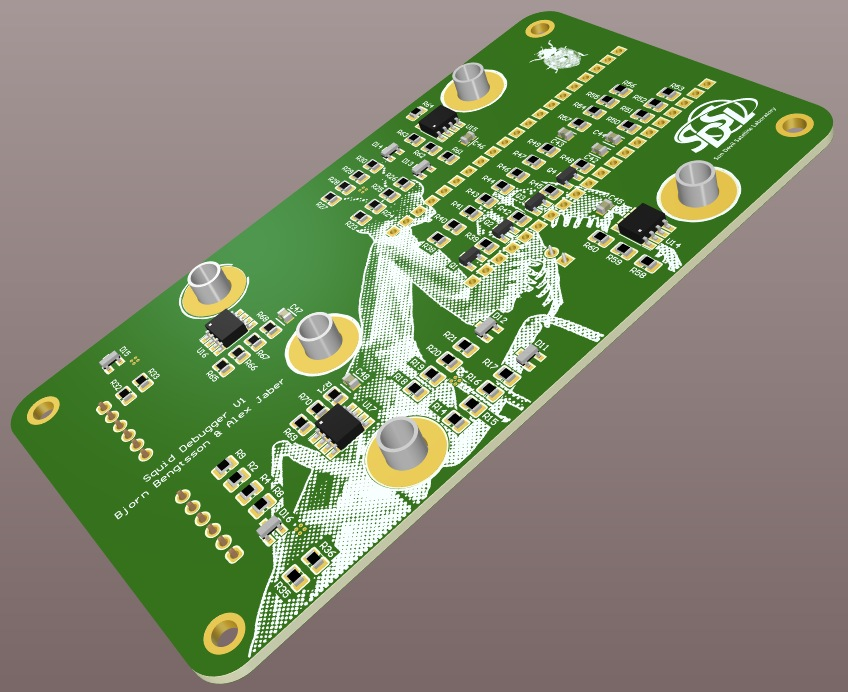
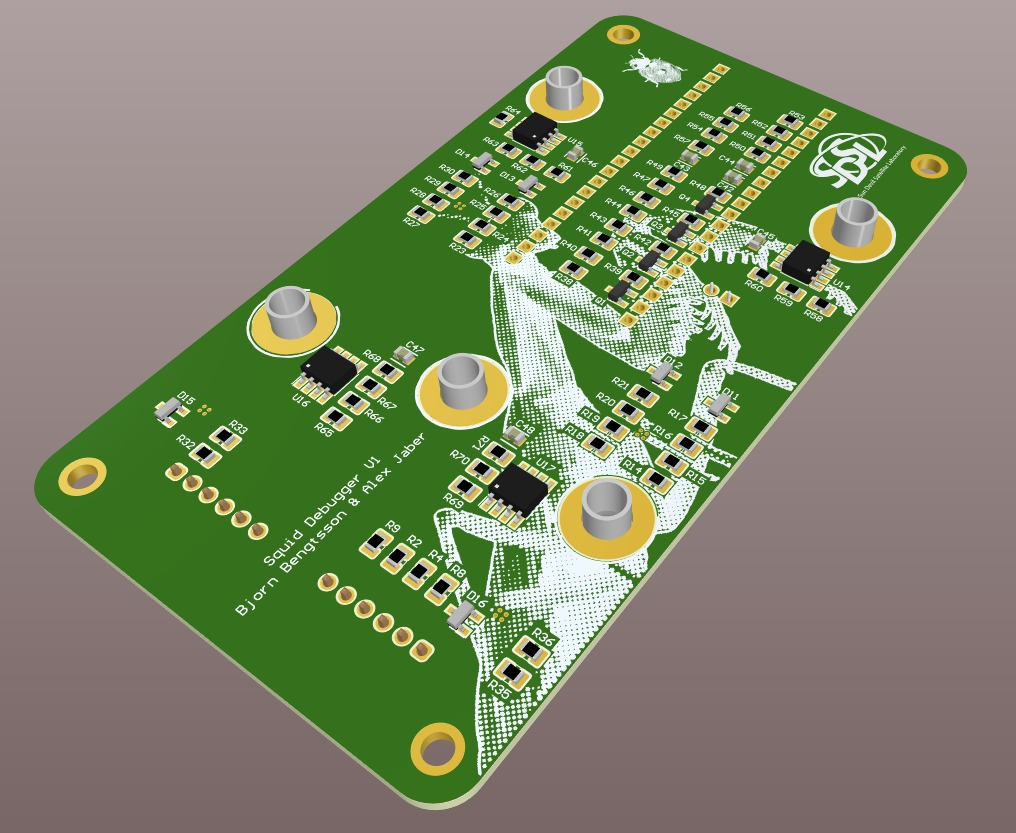
Board pictures from Bjorn: portrait bottom artwork
Front, back, both in 3D and the 2D layer view replace the scripted
pictures; the outdated 2D bottom picture is removed.

diff --git a/tools/pcb_shots.py b/tools/pcb_shots.py
@@ -13,7 +13,7 @@ Do not touch the mouse or keyboard while it runs (about 40 s; it stops by itself
 with a Shift + right-button drag. After Fit Board the view is zoomed out two wheel notches (Ctrl + wheel), so the floating toolbar at the top of
 the view and the layer tabs at the bottom never cover the board; each picture is then cropped to the board plus 12 pixels.
 
-Pictures: V1_pcb_top.jpg, V1_pcb_bottom.jpg (straight down, 3D; the bottom one is saved in landscape), V1_pcb_top_3d.jpg, V1_pcb_bottom_3d.jpg (tilted),
+Pictures: V1_pcb_top.jpg, V1_pcb_bottom.jpg (straight down, 3D), V1_pcb_top_3d.jpg, V1_pcb_bottom_3d.jpg (tilted),
 V1_pcb_2d_top.png, V1_pcb_2d_bottom.png (2D layer view).
 """
 import ctypes, os, sys, time
@@ -26,7 +26,7 @@ OUT = os.path.join(os.path.dirname(os.path.abspath(__file__)), '..', 'screenshot
 # board 1 degree about the screen's horizontal (vertical drag) or vertical (horizontal drag) axis. To turn the board
 # in its own plane: stand it on edge (90 degrees), turn it, lean it back down. Result: turned ~58 degrees, seen ~57 degrees off vertical.
 TILT = [(0, -615), (-395, 0), (0, 225)]
-BOTTOM_TURN = -90                 # the straight-down back view is saved turned a quarter clockwise: the bottom artwork and title are drawn for landscape
+BOTTOM_TURN = 0                   # degrees to turn the straight-down back view when saving (-90 = landscape); the artwork is portrait again
 MARGIN = 12                    # crop margin around the board in pixels: tight, so the floating toolbar above the board stays out of the picture
 u = ctypes.windll.user32
 try: ctypes.windll.shcore.SetProcessDpiAwareness(2)

diff --git a/README.md b/README.md
@@ -61,24 +61,19 @@ All six sheets as one PDF: [`screenshots/V1_schematic.pdf`](screenshots/V1_schem
 61 × 110 mm, 4 layers. Details in [`design/V1_LAYOUT.md`](design/V1_LAYOUT.md); plan view with pads and designators:
 [`screenshots/V1_pcb_placement_plan.png`](screenshots/V1_pcb_placement_plan.png).
 
-**Back (bottom side, shown in landscape: the artwork and title are drawn that way)**
-
-![PCB bottom](screenshots/V1_pcb_bottom.jpg)
-
-| Front (top side) | Front, 3D |
+| Front (top side) | Back (bottom side, flipped view) |
 |---|---|
-| ![PCB top](screenshots/V1_pcb_top.jpg) | ![PCB top, 3D](screenshots/V1_pcb_top_3d.jpg) |
+| ![PCB top](screenshots/V1_pcb_top.jpg) | ![PCB bottom](screenshots/V1_pcb_bottom.jpg) |
 
-**Back, 3D**
-
-![PCB bottom, 3D](screenshots/V1_pcb_bottom_3d.jpg)
-
-| 2D view, top | 2D view, bottom (flipped) |
+| Front, 3D | Back, 3D |
 |---|---|
-| ![PCB 2D, top](screenshots/V1_pcb_2d_top.png) | ![PCB 2D, bottom](screenshots/V1_pcb_2d_bottom.png) |
+| ![PCB top, 3D](screenshots/V1_pcb_top_3d.jpg) | ![PCB bottom, 3D](screenshots/V1_pcb_bottom_3d.jpg) |
 
-The 2D pictures show the layers that were switched on in Altium when they were taken (silkscreen and pads; thin lines
-are connections still to route). All six pictures are taken by `python tools/pcb_shots.py`; the sheet images by
+**2D layer view** (red = top copper, blue = bottom copper, yellow = silkscreen, thin lines = connections still to route):
+
+![PCB 2D](screenshots/V1_pcb_2d_top.png)
+
+`python tools/pcb_shots.py` can retake these from the open Altium window; the sheet images come from
 `python tools/sch_images.py`.
 
 ## Documentation

diff --git a/design/V1_CHANGELOG.md b/design/V1_CHANGELOG.md
@@ -529,6 +529,14 @@ Numbers are backed by `tools/calc_v1.py` and the datasheets cited in `V1_PLAN.md
 - A small piece of artwork was also added on the top side by Bjorn (left of the UART frame).
 - Checked before the pictures: no designator had moved since the positions were pinned; `pcb_check.py` errors = 0.
 
+## 35. Bottom artwork redrawn in portrait; pictures supplied by Bjorn (DONE Nov 27)
+- Bjorn redid the bottom silkscreen: a larger mantis drawn for the portrait view, the ladybug top-left, the SDSL logo
+  top-right, and the title running up the board between the two headers. He supplied five pictures (front, back,
+  both in 3D, and the 2D layer view), which replace the scripted ones. The old 2D bottom picture was removed.
+- `pcb_shots.py` saves the back view in portrait again (`BOTTOM_TURN = 0`).
+- **Not in the repo yet:** the board file on disk was last saved before this redraw, so `hardware/DebugBoard.PcbDoc`
+  still holds the landscape artwork until the board is saved and committed again.
+
 ## Open (not yet changed)
 - Switchable 120 Ω CAN termination (alternatives: solder jumper, 2-pin header, or split 2×60 Ω + 4.7 nF).
 - Net Identifier Scope → Global; remove the %TEMP% library links; create the TPS2121 workspace part.

diff --git a/design/V1_LAYOUT.md b/design/V1_LAYOUT.md
@@ -9,19 +9,12 @@ Status (Nov 27 2026): **components placed, silkscreen done, DRC run. Not routed.
 - `DumpV1` writes the real pad and text geometry to `tools/altium/pcb_dump.txt`. `python tools/pcb_check.py`
   checks it: positions, spacing, designators, stack. `python tools/drc_summary.py` summarises Altium's DRC report.
 
-| Top | Top, 3D |
+| Top | Bottom (flipped view) |
 |---|---|
-| ![top](../screenshots/V1_pcb_top.jpg) | ![top 3D](../screenshots/V1_pcb_top_3d.jpg) |
+| ![top](../screenshots/V1_pcb_top.jpg) | ![bottom](../screenshots/V1_pcb_bottom.jpg) |
+| ![top 3D](../screenshots/V1_pcb_top_3d.jpg) | ![bottom 3D](../screenshots/V1_pcb_bottom_3d.jpg) |
 
-Bottom (landscape, as the artwork is drawn):
-
-![bottom](../screenshots/V1_pcb_bottom.jpg)
-
-![bottom 3D](../screenshots/V1_pcb_bottom_3d.jpg)
-
-| 2D top | 2D bottom |
-|---|---|
-| ![2D top](../screenshots/V1_pcb_2d_top.png) | ![2D bottom](../screenshots/V1_pcb_2d_bottom.png) |
+2D layer view: ![2D](../screenshots/V1_pcb_2d_top.png)
 
 **3D models:** every part except the mounting holes has a 3D body. 21 parts whose footprints had none (the four eFuses, SW1, the six
 22 µF caps, the nine SOT-23 diodes, U10) get their STEP file from `hardware/Libraries/SquidDebugger_V1/3D` when
